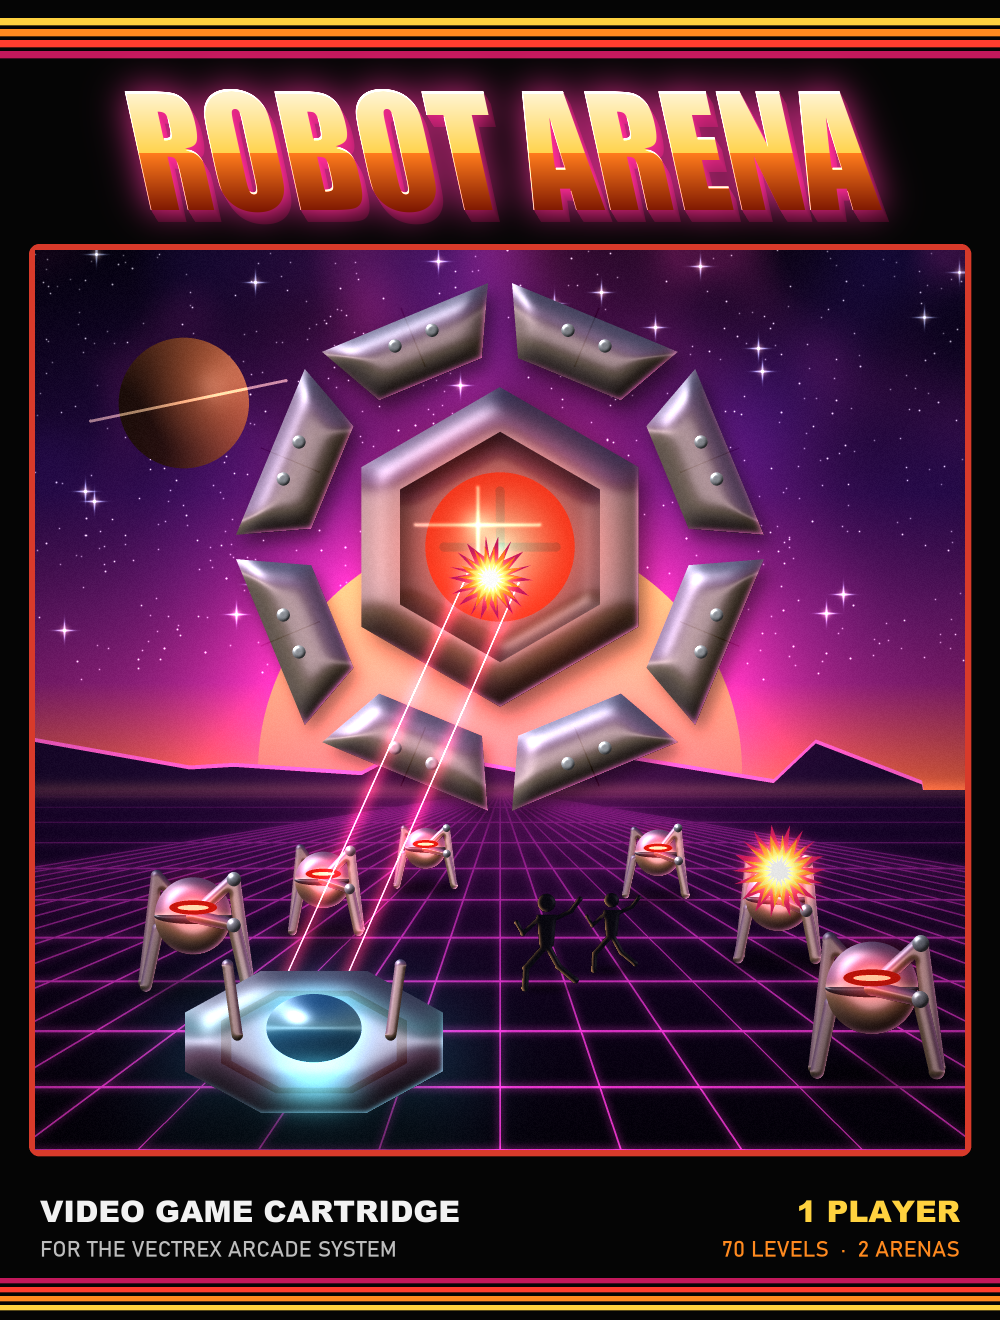
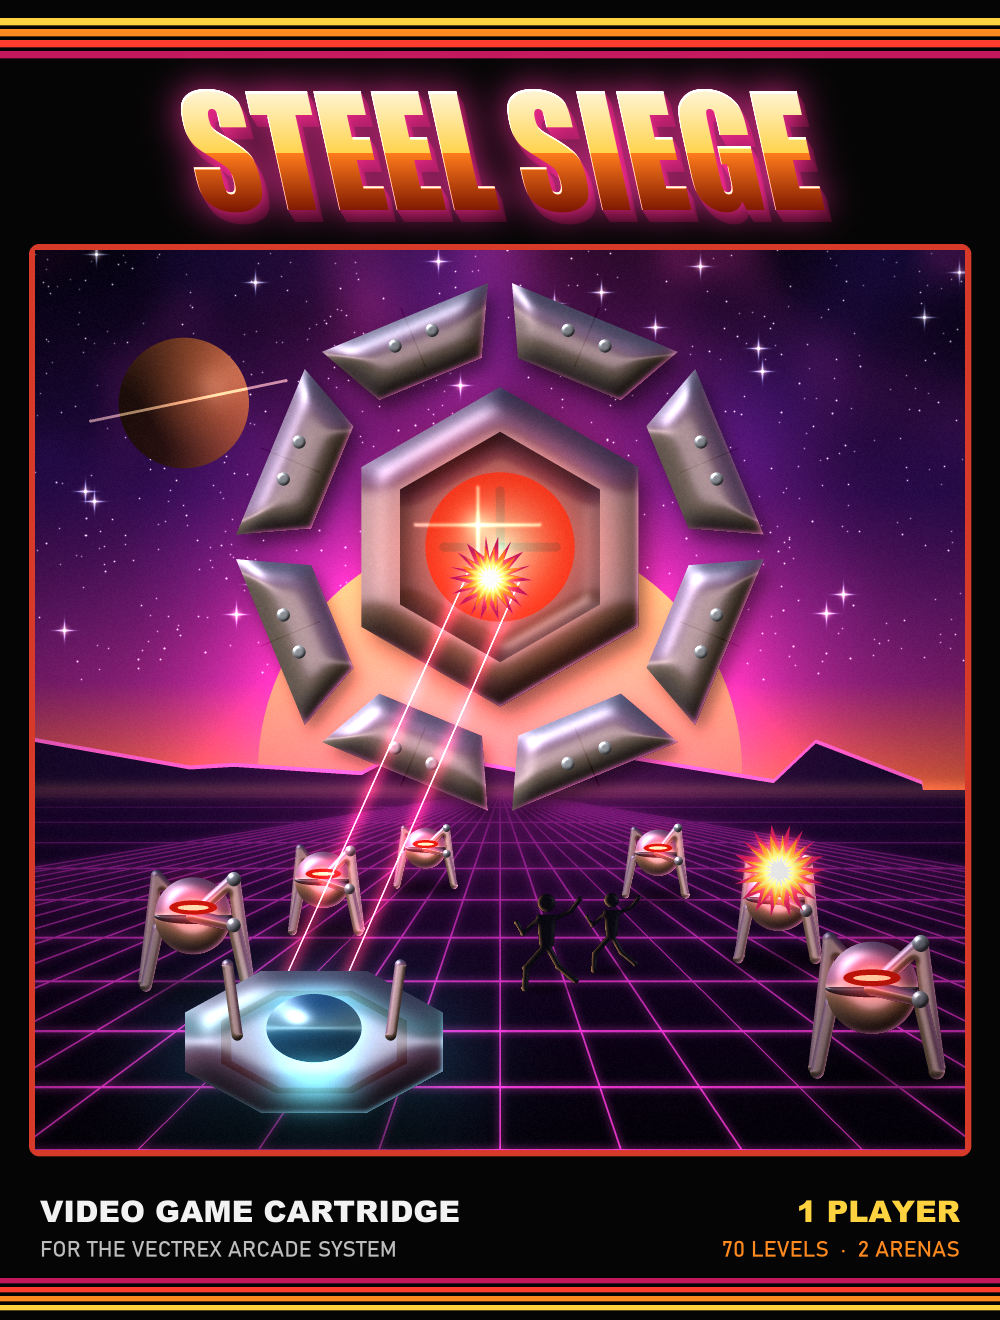
Rename the game to Steel Siege: title, box art, cartridge render, board GIF, overlay, promo shots, title screen, Guardian GIF

Changed region(s): [[0.093, 0.0311, 0.899, 0.1864]]

diff --git a/boxart.py b/boxart.py
@@ -1,4 +1,4 @@
-"""boxart.py - Robot Arena 'as it would look in real life': 80s cartridge-box style paintings (paint.py).
+"""boxart.py - Steel Siege 'as it would look in real life': 80s cartridge-box style paintings (paint.py).
 
     python site/boxart.py            -> site/img/art/*.png
 """
@@ -154,7 +154,7 @@ def box_front(path):
     for i, c in enumerate(('#ffd23f', '#ff8a1f', '#ff3d2e', '#c2185b')):    # (the stripes across the top)
         y = 18 + i * 11
         a.fill(a.rect(0, y, W, y + 7), C(c))
-    a.chrome_title('ROBOT ARENA', W / 2, 150, 150, shear=-0.22, sx=0.92, depth=12)
+    a.chrome_title('STEEL SIEGE', W / 2, 150, 150, shear=-0.22, sx=0.92, depth=12)
     sw, sh = W - 70, 900
     scene = scene_guardian(sw, sh, rnd)
     x0, y0 = 35, 250

diff --git a/overlay/finish.py b/overlay/finish.py
@@ -1,5 +1,5 @@
 """finish.py ART.png [OUT.png] - turn artwork made on the template (by an artist or an image generator) into the
-Robot Arena overlay: scaled to the sheet (846 x 1080, cropped to 162:207 if needed), the play window and the HUD boxes
+Steel Siege overlay: scaled to the sheet (846 x 1080, cropped to 162:207 if needed), the play window and the HUD boxes
 cut out exactly (whatever was painted there is dropped), the see-through colour filters put back (field blue, score
 gold, level white, lives red, bombs green, cards white), the sheet's rounded corners. Default OUT: overlay.png
 is NOT touched - writes ART_overlay.png next to ART unless OUT is given."""

diff --git a/paint.py b/paint.py
@@ -1,4 +1,4 @@
-"""paint.py - a small airbrush painter for the Robot Arena page's 80s box art (numpy + PIL + scipy).
+"""paint.py - a small airbrush painter for the Steel Siege page's 80s box art (numpy + PIL + scipy).
 
 Shapes are masks; solid() shades a mask as a smooth 3D object from its blurred height (diffuse light, a specular
 highlight, optional chrome sky reflection, rim light), the way an airbrushed box painting reads. Backdrops: an 80s

diff --git a/make_sketches.py b/make_sketches.py
@@ -1,4 +1,4 @@
-"""make_sketches.py - the Robot Arena page's robot sketches, drawn from the game's own vector shapes (tools/genart.py).
+"""make_sketches.py - the Steel Siege page's robot sketches, drawn from the game's own vector shapes (tools/genart.py).
 
 Two pictures a robot: a pencil design sheet on graph paper (img/sketch/NAME.svg) and the shape as it glows on the
 Vectrex screen (img/screen/NAME.svg).    python site/make_sketches.py

diff --git a/overlay/make_template.py b/overlay/make_template.py
@@ -1,4 +1,4 @@
-"""make_template.py - Robot Arena overlay TEMPLATE for an artist / image generator (2026-10-28).
+"""make_template.py - Steel Siege overlay TEMPLATE for an artist / image generator (2026-10-28).
 
 The overlay sheet is 162 x 207 mm (846 x 1080 px in the emulator). Outputs (this folder, each at 1x and 4x):
   template_guides*.png  - labelled: artwork area, play window, HUD boxes with their names and colours, the glass edge

diff --git a/cards.py b/cards.py
@@ -1,4 +1,4 @@
-"""cards.py - Robot Arena robot portraits 'as they would look in real life', 80s box-art style (paint.py, boxart.py).
+"""cards.py - Steel Siege robot portraits 'as they would look in real life', 80s box-art style (paint.py, boxart.py).
 
     python site/cards.py [key ...]        -> site/img/art/card_KEY.png
 """

diff --git a/README.md b/README.md
@@ -1,6 +1,6 @@
-<p align="center"><img src="img/art/box_front.png" width="560" alt="Robot Arena box art: the Guardian looms over the arena, Cross walkers march across the grid and the fighter fires"></p>
+<p align="center"><img src="img/art/box_front.png" width="560" alt="Steel Siege box art: the Guardian looms over the arena, Cross walkers march across the grid and the fighter fires"></p>
 
-<h1 align="center">ROBOT ARENA</h1>
+<h1 align="center">STEEL SIEGE</h1>
 <p align="center"><b>An arena shooter for the Vectrex · 70 levels · 2 arenas · 4 bosses</b><br>
 <sub>6809 assembly · 64 KiB bank-switched cartridge · optional DS2431 save chip</sub></p>
 
@@ -11,16 +11,16 @@ for them in waves. One fighter is left. Get the humans out, break the waves, and
 at the centre of it all. Beat it, and what is left of the robots falls back to **The Core**, the factory that builds
 them. Follow them in.
 
-Robot Arena started as a love letter to Williams' *Robotron: 2084* and Thomas Sontowski's *Robot Arena*, and grew
+Steel Siege started as a love letter to Williams' *Robotron: 2084* and Thomas Sontowski's *Robot Arena*, and grew
 into a full campaign built around what the Vectrex does best: sharp, bright vectors moving fast. Every robot has its
 own behaviour, every act changes the rules, and the difficulty is something you choose, not something that just
 happens to you.
 
 ## Download
 
-**[Robot Arena v1.0](https://github.com/hugonl31/Robot_Arena/releases/latest)**: the 64 KB cartridge ROM
-(`Robot_Arena.bin`) and the screen overlay (`Robot_Arena_overlay.png`). To try it right away, the release also has
-[Vectrex_EMU](https://github.com/hugonl31/Vectrex_EMU) for Windows, macOS and Linux, with Robot Arena and its overlay
+**[Steel Siege v1.0](https://github.com/hugonl31/Steel_Siege/releases/latest)**: the 64 KB cartridge ROM
+(`Steel_Siege.bin`) and the screen overlay (`Steel_Siege_overlay.png`). To try it right away, the release also has
+[Vectrex_EMU](https://github.com/hugonl31/Vectrex_EMU) for Windows, macOS and Linux, with Steel Siege and its overlay
 already in it.
 
 On a real Vectrex the ROM needs a cartridge with a 64 KB EPROM banked by PB6, or a flash cartridge that supports
@@ -29,7 +29,7 @@ it. Saves need the optional DS2431 chip; without it the game runs the same, with
 **Make your own cartridge:** the [64K board](https://github.com/hugonl31/Vectrex_Cart_PCB/tree/main/boards/v1_27c512_64k)
 on [Vectrex_Cart_PCB](https://github.com/hugonl31/Vectrex_Cart_PCB) is made for this: a 27C512 EPROM, PB6 bank
 switching and a place for the DS2431. It has Gerbers ready to order from a board maker, the parts list, and a
-3D-printed shell. Burn `Robot_Arena.bin` into the EPROM and it plugs into any Vectrex.
+3D-printed shell. Burn `Steel_Siege.bin` into the EPROM and it plugs into any Vectrex.
 
 **About the emulator:** [Vectrex_EMU](https://github.com/hugonl31/Vectrex_EMU) has the full story: the real tube
 look, overlays, the settings, online play, and newer versions.
@@ -73,17 +73,17 @@ The stills are staged: test cartridges freeze a composed moment, drawn by the ga
 ## The cartridge
 
 <p align="center">
-<img src="img/pcb/board_spin.gif" width="400" alt="The Robot Arena cartridge board turning: the W27C512 EPROM, the gold ROBOT ARENA title on the front, the Vectrex logo on the back">
-<img src="img/art/cart_render.jpg" width="400" alt="The Robot Arena cartridge: a clear amber shell with the ROBOT ARENA label, the board visible inside"><br>
+<img src="img/pcb/board_spin.gif" width="400" alt="The Steel Siege cartridge board turning: the W27C512 EPROM, the gold STEEL SIEGE title on the front, the Vectrex logo on the back">
+<img src="img/art/cart_render.jpg" width="400" alt="The Steel Siege cartridge: a clear amber shell with the STEEL SIEGE label, the board visible inside"><br>
 <sub>The cartridge board (KiCad 3D render) and the finished cartridge.</sub>
 </p>
 
 * **Pure Vectrex.** The game runs on the console's own 6809 at 1.5 MHz with its 1 KB of RAM. No UVMC2, PiTrex or
   other extra hardware: it plugs into any Vectrex like a 1982 cartridge.
 * **64 KB, full.** The board carries one W27C512 EPROM, a resistor and a capacitor, plus an optional DS2431 for the
-  saves. The VIA's PB6 line drives A15 and switches between the two 32 KB banks. Of the 65,536 bytes, 247 are free
+  saves. The VIA's PB6 line drives A15 and switches between the two 32 KB banks. Of the 65,536 bytes, 251 are free
   (99.6 % used): there is no room for another robot, boss or arena.
-* **The board:** 54 × 66 mm, two layers, gold (ENIG) edge fingers. The ROBOT ARENA title on the front and the Vectrex
+* **The board:** 54 × 66 mm, two layers, gold (ENIG) edge fingers. The STEEL SIEGE title on the front and the Vectrex
   logo on the back are openings in the solder mask, so they come out in gold. The board is based on the open
   [Vectrex_Cart_PCB](https://github.com/hugonl31/Vectrex_Cart_PCB) design.
 
@@ -303,4 +303,4 @@ instant.
 
 The exact layout of the screen overlay, with a brief for new artwork: [overlay/](overlay/README.md).
 
-<p align="center"><sub>Robot Arena · a Vectrex homebrew by Hugo Bokhorst · 2026</sub></p>
+<p align="center"><sub>Steel Siege · a Vectrex homebrew by Hugo Bokhorst · 2026</sub></p>

diff --git a/overlay/README.md b/overlay/README.md
@@ -1,7 +1,7 @@
-# Robot Arena overlay: template and brief
+# Steel Siege overlay: template and brief
 
 A Vectrex screen overlay is a printed, partly see-through plastic sheet laid over the tube. This folder has the
-exact layout of the Robot Arena overlay, so new artwork can be painted for it. The main page
+exact layout of the Steel Siege overlay, so new artwork can be painted for it. The main page
 ([../README.md](../README.md)) shows the game, its robots, its screenshots and the box-art style.
 
 ## The sheet
@@ -22,11 +22,11 @@ exact layout of the Robot Arena overlay, so new artwork can be painted for it. T
 | [mask_4x.png](mask_4x.png) | White = printed artwork, black = see-through. |
 | [finish.py](finish.py) | `python finish.py ART.png [OUT.png]` crops and scales finished artwork to the sheet, cuts the window and the boxes exactly, and puts the coloured filters back. |
 | [make_template.py](make_template.py), [layout5.json](layout5.json) | How the template is made: the tube outline and the HUD boxes, measured from the game running on the emulator. |
-| [current_overlay.png](current_overlay.png) | **The final overlay** (1109 x 1418 px): the arena city at night, the ROBOT ARENA logo, the five HUD boxes. |
+| [current_overlay.png](current_overlay.png) | **The final overlay** (1109 x 1418 px): the arena city at night, the STEEL SIEGE logo, the five HUD boxes. |
 
 ## Brief
 
-Paint arcade-cabinet side art for **ROBOT ARENA**, a Vectrex arena shooter (2084: the robots have turned on their
+Paint arcade-cabinet side art for **STEEL SIEGE**, a Vectrex arena shooter (2084: the robots have turned on their
 makers; you are a lone fighter ship saving the last humans).
 
 * **Style:** 1980s arcade cabinet art and comic-book / anime illustration: bold ink outlines, rich colour, dramatic
@@ -37,7 +37,7 @@ makers; you are a lone fighter ship saving the last humans).
   Overseer, Hulks, Brains, Cross walkers, Tanks, the Hydra. They loom over the corners, their arms reaching down the
   sides. Below them: a landscape, a city skyline or arena stands with a crowd, floodlights, laser beams, explosions. A
   night sky with stars and planets at the top.
-* **Title marquee at the bottom:** a great-looking **ROBOT ARENA** logo in the bottom band, where there is the most
+* **Title marquee at the bottom:** a great-looking **STEEL SIEGE** logo in the bottom band, where there is the most
   room, with the background artwork continuing behind it, not on a plain plate.
 * **Colour:** darker tones overall, with bright highlights for depth and 3D shading. Next to the window keep it fairly
   dark, so the bright game lines stand out.
